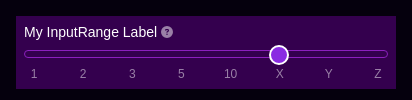
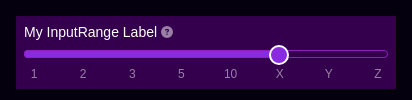
ui tweaks (#13)
* Update TODO.md

* range dual controls step, not max / min

* Update TODO.md

* style the range slider bg correctly on chrome

* 🧢 Storycaps from CI

* Update styled.js

* 🧢 Storycaps from CI

* Update styled.js

* Update TODO.md

* Update TODO.md

* Update TODO.md

---------

Changed region(s): [[0.0583, 0.51, 0.6699, 0.57]]

diff --git a/src/components/InputRange/index.jsx b/src/components/InputRange/index.jsx
@@ -7,6 +7,7 @@ import InputWrapper from '@/components/InputWrapper';
 import InputHeader from '@/components/InputHeader';
 import {
   RangeWrapper,
+  RangeInner,
   Input,
   Sublabels,
   Sublabel,
@@ -43,20 +44,24 @@ const InputRange = ({
         {children}
       </InputHeader>
       <RangeWrapper>
-        <Input
-          ref={ref}
-          id={id}
-          min="0"
-          step="1"
-          max={options.length - 1}
-          value={index}
-          onChange={event => onChange(options[event.target.value].value)}
-        />
+        <RangeInner>
+          <Input
+            ref={ref}
+            id={id}
+            min="0"
+            step="1"
+            max={options.length - 1}
+            value={index}
+            onChange={event => onChange(options[event.target.value].value)}
+          />
+        </RangeInner>
         <Sublabels $isPips={isPips}>
           {!isPips && minLabel && (
             <Sublabel
               className="muted"
-              onClick={() => handleChange(options[0].value)}
+              onClick={() =>
+                handleChange(options[Math.max(0, index - 1)].value)
+              }
             >
               <ArrowLeftIcon />
               <SublabelText className="muted">{minLabel}</SublabelText>
@@ -75,7 +80,11 @@ const InputRange = ({
           {!isPips && maxLabel && (
             <Sublabel
               className="muted"
-              onClick={() => handleChange(options[options.length - 1].value)}
+              onClick={() =>
+                handleChange(
+                  options[Math.min(options.length - 1, index + 1)].value,
+                )
+              }
             >
               <SublabelText className="muted">{maxLabel}</SublabelText>
               <ArrowRightIcon />

diff --git a/src/components/InputRange/styled.js b/src/components/InputRange/styled.js
@@ -6,11 +6,15 @@ export const RangeWrapper = styled.div`
   gap: 3.33333333px; /* to make it the same height as a text input */
 `;
 
+export const RangeInner = styled.div`
+  height: 14px;
+  padding-top: 6px;
+`;
+
 const track = css`
   width: 100%;
   height: 8px;
   cursor: pointer;
-  background: var(--input-bg);
   border: 1px solid var(--bg4);
   border-radius: 100px;
 `;
@@ -21,25 +25,30 @@ const thumb = css`
   box-sizing: border-box;
   height: 20px;
   width: 20px;
-  border-radius: 10px;
+  border-radius: 50%;
   background: var(--accent);
   cursor: pointer;
 `;
 
 const progress = css`
-  background: var(--accent);
+  background: transparent;
   height: 8px;
 `;
 
 export const Input = styled.input.attrs({ type: 'range' })`
   display: block;
   width: 100%;
-  height: 20px;
+  height: 8px;
   min-width: 100%;
   box-sizing: border-box;
   accent-color: var(--accent);
   margin: 0;
+  border-radius: 6px;
   background: transparent;
+  background-image: linear-gradient(90deg, var(--accent), var(--accent));
+  background-repeat: no-repeat;
+  background-size: ${({ value, max }) => `${100 * (value / max)}%`} 100%;
+
   &::-moz-range-track {
     ${track}
   }

diff --git a/TODO.md b/TODO.md
@@ -3,48 +3,43 @@
 ## Now
 
 - image grid is broken, overflowing
-- interrupt prompt doesn't work in dev mode (connect to same address as ws)
-- range input's dual controls should step up / down, not go to max / min
 - pressing escape when in fullscreen does not unfullscreen the html element
-- style the range slider correctly on chrome
 - style the progress bar correctly
 
 ## known bugs
 
-- seed > randomise checkbox doesnt randomise
+- interrupt prompt doesn't work in dev mode (connect to same address as ws)
+- seed > randomise dice icon doesnt randomise on generation or autogen
 - theme switching is not working inside of storybook
+- the websocket is needlessly refreshing when switching workflows. pyramid order
+- up and down arrows for prompt weights are shown, but do nothing
 - various problems with speech capture
   - fix how words are appended into prompt
     - currently it just overrides the entire value, but ideally the last word said is appended into the exisiting value
     - how to handle when utterances are updated?
-- up and down arrows for prompt weights are shown, but do nothing
 - ethnic bias broken in comfy dungeon vs original implimentation, use a PRNG based on seed to select one (or two) from the list
 - keyboard a11y outlines are broken (broken during retheme work)
 - rescale CFG does not activate?
-- is the websocket needlessly refreshing when switching workflows?
 
 ## Next
 
-- image input (for ipa)
-  - example UI
 - more work on adjust weight with CTRL+UP or CTRL+DOWN
 - make an adjustable limit for tail, separate from "speech" entirely + how to do UI for this?
 - combine InputTextarea, InputSpeech and InputText into a single type of input
-- interrupt and queue features
+- interrupt and queue features (styling 50% done already)
   - using multiple instances, how should queue work? clientId adjustments...
+- autogen should fire when any form field changes and the queue is empty
 
 ## Future
 
-- url routing, so can link to workflows directly in readme
-- README redo / docs
-  - how to make UIB workflows and example links
-  - screenshots of UIB
+- image input (for ipa)
+  - example UI
+- storybook mocks
+  - mock for comfyui websocket
+  - mock images for image grid component, so we can remove storycap skip parameter on image grid stories
 - ws reconnect / error message overlay or toaster
 - error handling of missing ckpt or lora
 - errors should appear in a relevent place, eg ckpt
-- storybook mocks
-  - mock for comfyui websocket
-  - mock images for image grid component
 - CI issues
   - add job summaries for compose and deploy jobs
   - needs to be checked more if CI is working
@@ -58,6 +53,11 @@
 - video output
 - add lint staged + husky
 - pm2 for single "dev" command
+- make SB a11y tests also test dark mode
+- url routing, so can link to workflows directly in readme
+- README redo / docs
+  - how to make UIB workflows and example links
+  - screenshots of UIB
 
 ## Ideas
 
